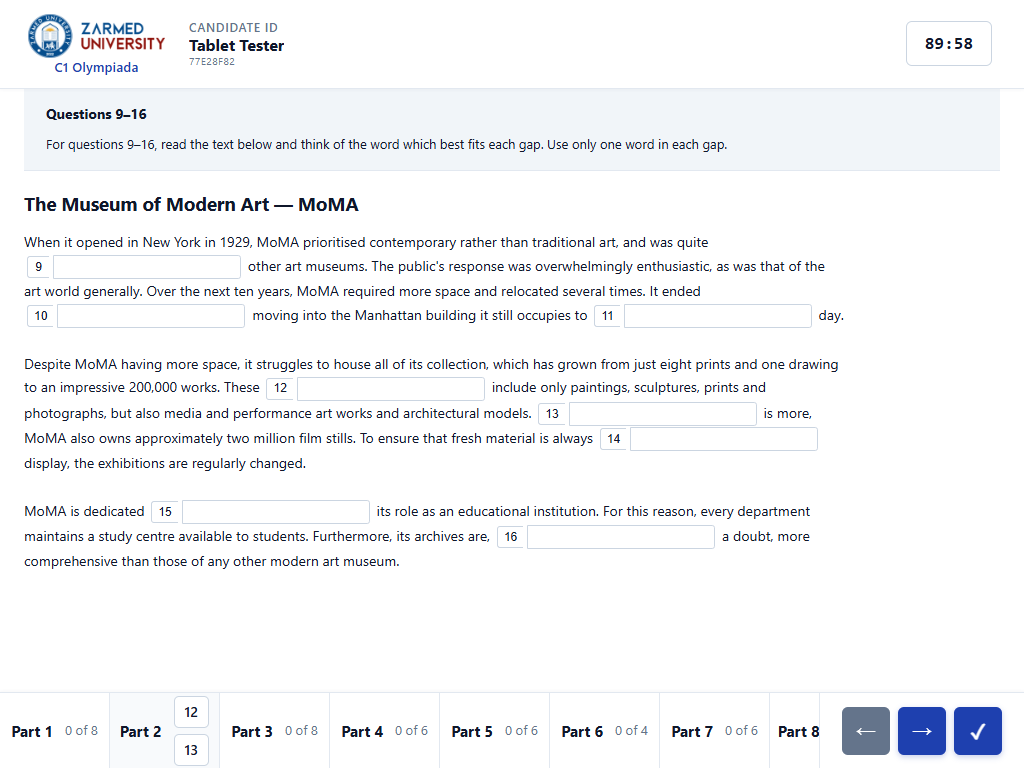
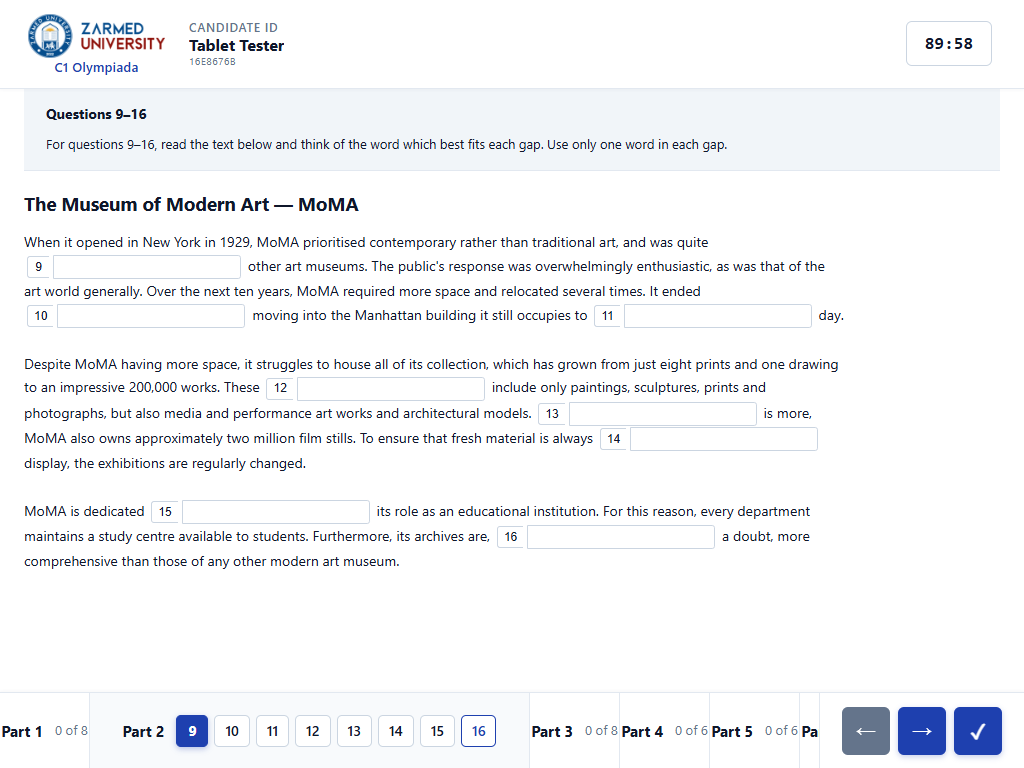
eye: checkpoint before round 30 (admin mobile overflow fix)

Changed region(s): [[0.0, 0.9062, 0.8125, 1.0], [0.1875, 0.0625, 0.2188, 0.0938]]

diff --git a/zarmet-olympiada/public/css/styles.css b/zarmet-olympiada/public/css/styles.css
@@ -1624,18 +1624,22 @@ body.zu-test-body .ct-nav-finish:focus-visible {
   .ct-nav-part--active { flex: 3; }
 }
 
-/* Medium viewports (881px–1199px): common lab-PC range covering 1024x768
- * and 1280x720. At 1024x768 the active .ct-nav-part cell was too narrow
- * (~113px) to fit 6–10 question-number buttons on one row, so they wrapped
- * to 2–3 rows and were clipped below the 76px fixed nav bar — students
- * on Part 1 (8 questions) or Part 8 (10 questions) saw only "Part 1" with
- * NO visible question numbers, and Part 4 (6 questions) showed only 2/6.
- * Fix: give the active cell an explicit min-width wide enough for 10
- * numbered buttons on a single row (10 × 32 + 9 × 6 gap + label ≈ 440px).
- * Inactive cells shrink their min-width to 90px so the horizontal scroll
- * bar only kicks in at ~1100px — below that, round 14's scrollIntoView
- * keeps the active cell visible while inactive cells scroll off-screen. */
-@media (min-width: 881px) and (max-width: 1199px) {
+/* Medium viewports (881px–1399px): common lab-PC range covering 1024x768,
+ * 1280x720, and 1366x768. Originally shipped in round 28b for 1024 only
+ * (when students on Part 1 saw only the "Part 1" label with all 8 question
+ * numbers clipped below the 76px fixed nav bar). Round 29b extended the
+ * upper bound to 1399px because 1280/1366 — while not clipping — still
+ * rendered the question numbers as a cramped 2-row stack, while authentic
+ * Cambridge CAE (cae/examples/*.png) shows all numbers on a single row at
+ * those widths. At 1400+ desktop rules take over and the natural flex:3.5
+ * width is already wide enough for 10 numbers on one row.
+ *
+ * Active cell gets an explicit 440px min-width — enough for 10 numbered
+ * buttons on one row (10 × 32 + 9 × 6 gap + label ~60 + padding ~32 ≈
+ * 444px). Inactive cells shrink to 90px. Below ~1230px the total exceeds
+ * the nav container and overflow-x: auto kicks in; round 14's
+ * scrollIntoView on the active segment keeps it visible. */
+@media (min-width: 881px) and (max-width: 1399px) {
   .ct-nav-part { min-width: 90px; padding: 10px 10px; }
   .ct-nav-part--active {
     flex: 4;
